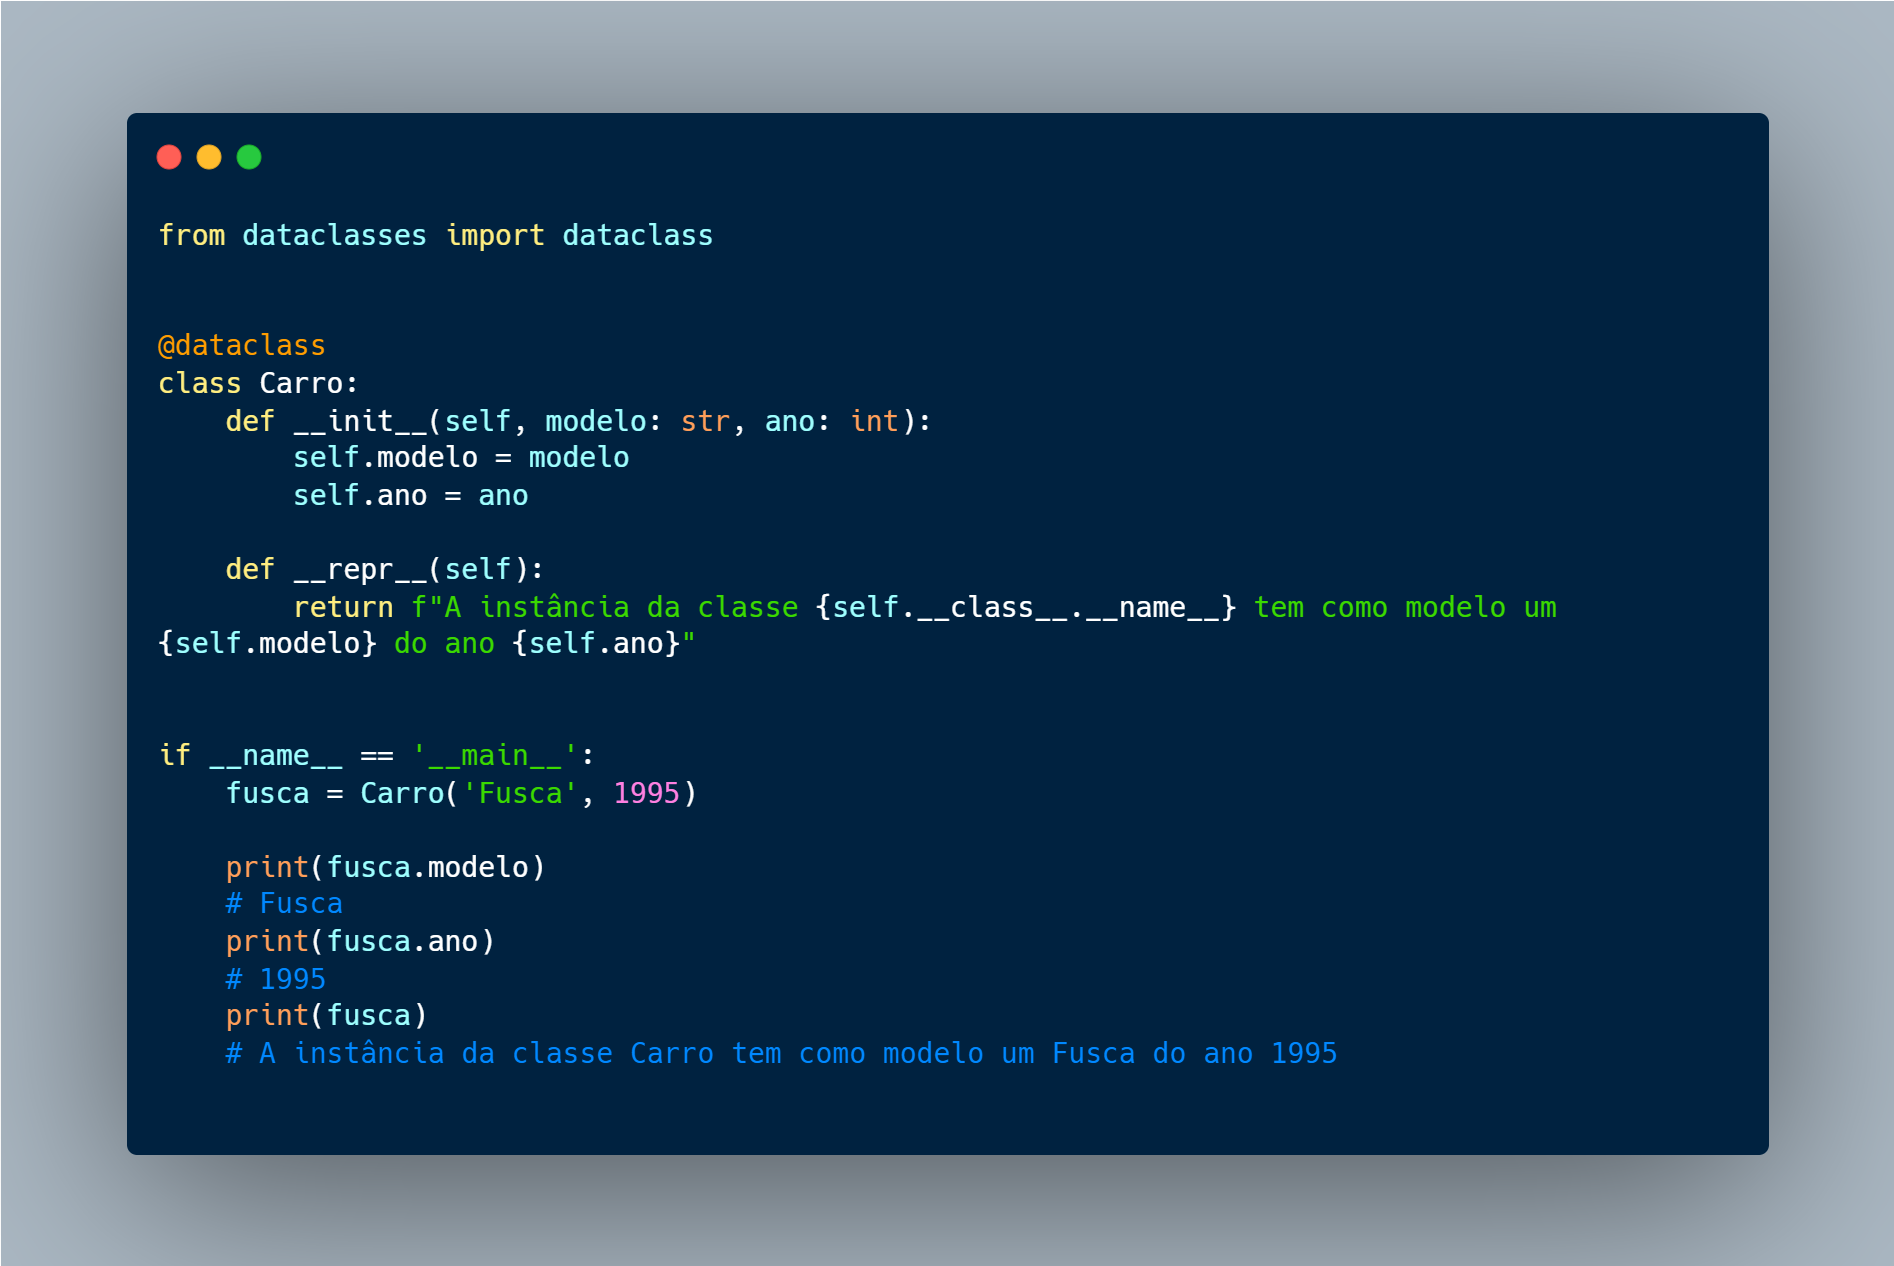
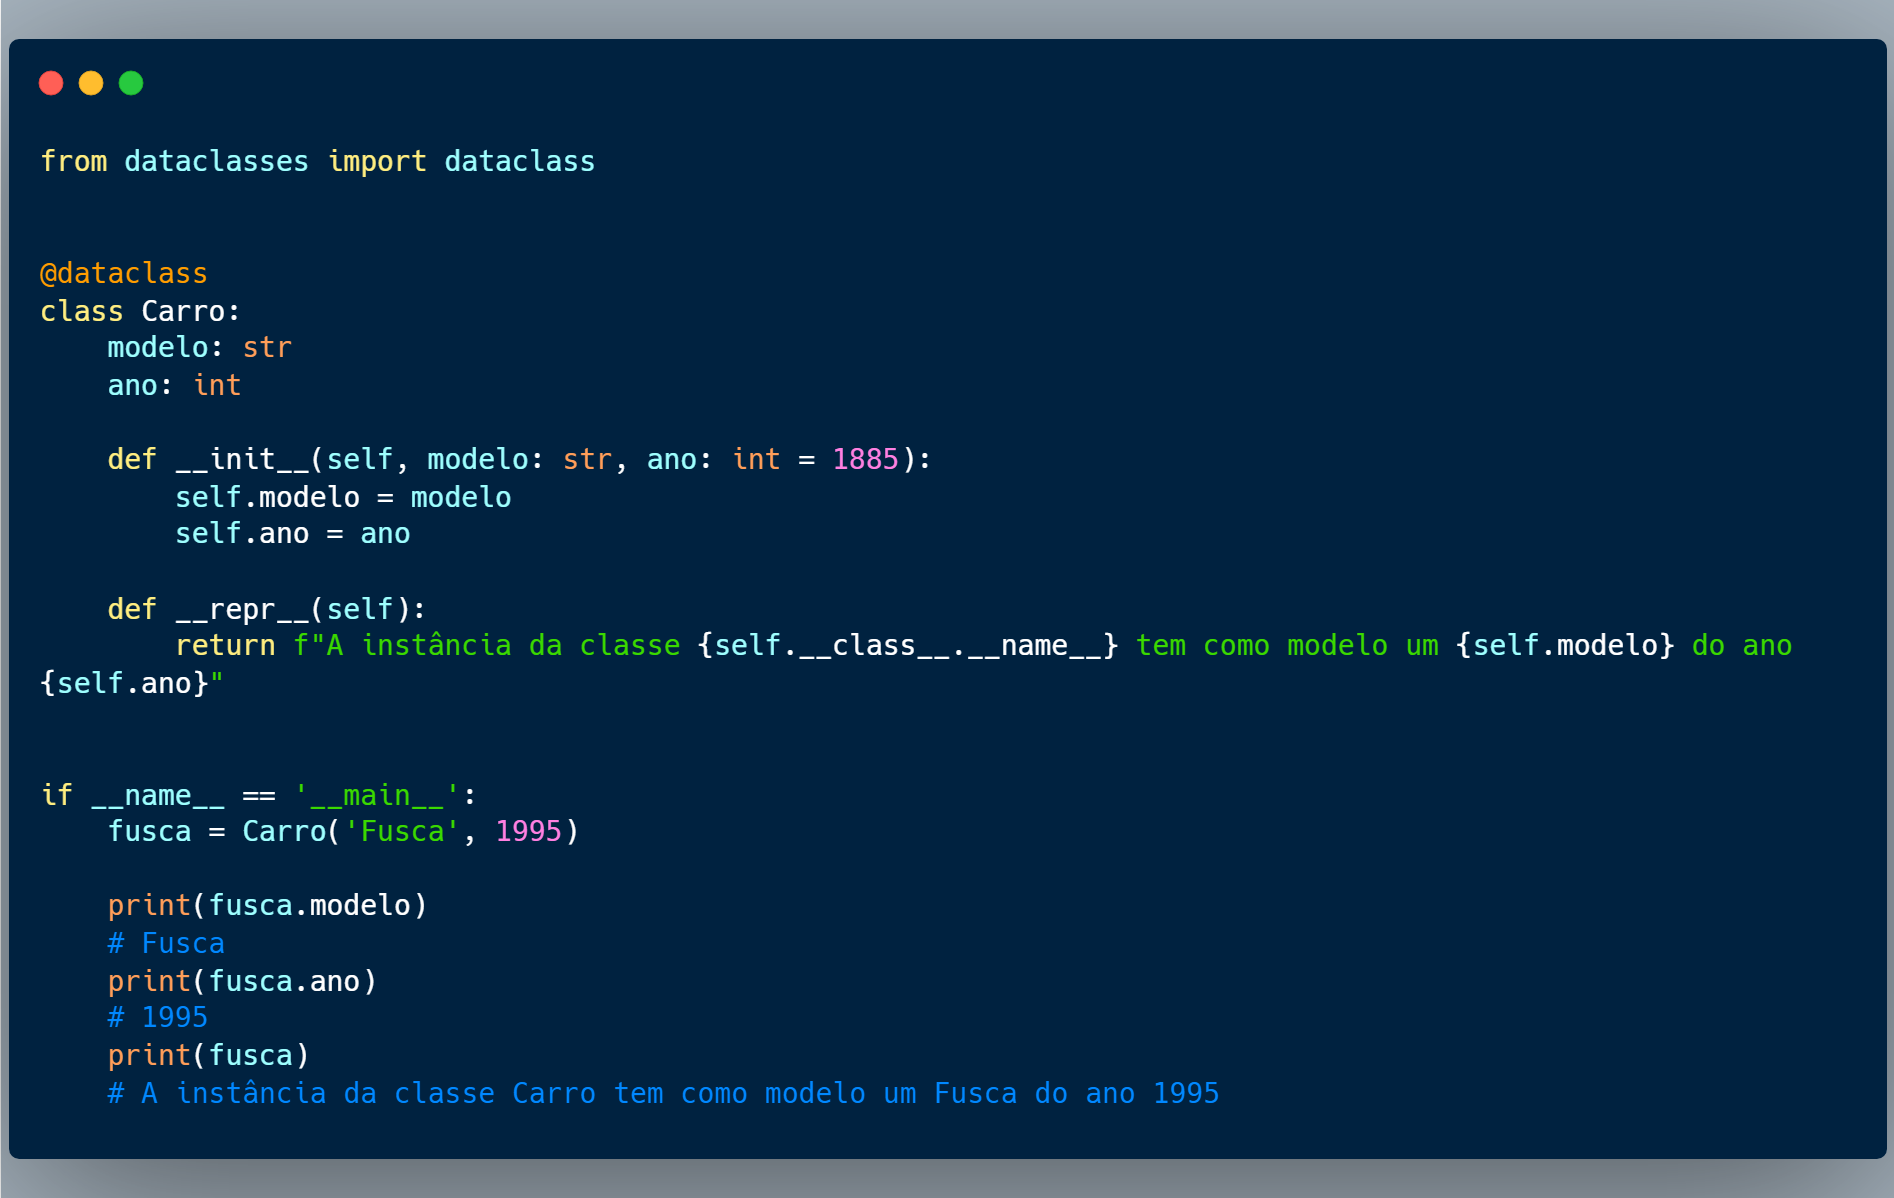
62 refactor

diff --git a/62_data_class/main.py b/62_data_class/main.py
@@ -3,7 +3,10 @@ from dataclasses import dataclass
 
 @dataclass
 class Carro:
-    def __init__(self, modelo: str, ano: int):
+    modelo: str
+    ano: int
+
+    def __init__(self, modelo: str, ano: int = 1885):
         self.modelo = modelo
         self.ano = ano
 
